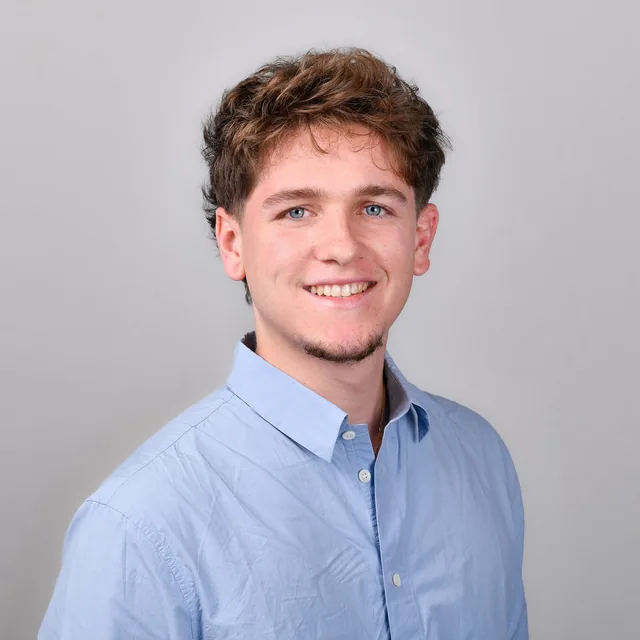
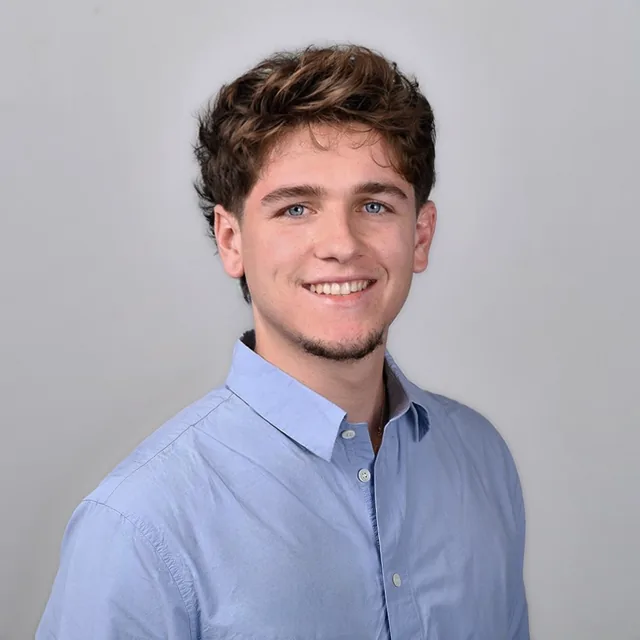
Bandeau de partenaires défilant et mise à jour de l'équipe

diff --git a/src/components/accueil/BandeauPartenaires.tsx b/src/components/accueil/BandeauPartenaires.tsx
@@ -1,5 +1,4 @@
 import Image from 'next/image';
-import { Grille } from '@/components/ui/Grille';
 import { accueil, partenaires } from '@/content/site';
 
 export function BandeauPartenaires() {
@@ -9,33 +8,38 @@ export function BandeauPartenaires() {
         {accueil.partenaires.surtitre}
       </h2>
 
-      <div className="border-t border-filet">
-        <Grille colonnes="grid-cols-2 md:grid-cols-4">
-          {partenaires.map((partenaire) => (
-            <li
-              key={partenaire.nom}
-              className="group flex h-24 items-center justify-center px-4 text-center md:h-32"
+      {/* Les logos défilent en boucle : la liste est affichée deux fois,
+          et la piste recule de la moitié de sa largeur avant de recommencer. */}
+      <div className="overflow-hidden pb-10 md:pb-14">
+        <div className="defilement-piste flex w-max">
+          {[0, 1].map((copie) => (
+            <ul
+              key={copie}
+              aria-hidden={copie === 1 || undefined}
+              className="defilement-liste flex shrink-0 items-center gap-16 pr-16 md:gap-24 md:pr-24"
             >
-              {partenaire.logo ? (
-                // Logo en couleur, qui grossit légèrement au survol.
-                <div className="relative h-11 w-[72%] md:h-14 md:w-[64%]">
-                  <Image
-                    src={partenaire.logo}
-                    alt={partenaire.nom}
-                    fill
-                    sizes="200px"
-                    className="object-contain transition-transform duration-300 group-hover:scale-105"
-                  />
-                </div>
-              ) : (
-                // Sans logo : le nom, en gris, en attendant le fichier.
-                <span className="font-titre text-lg font-medium tracking-[-0.02em] text-brume transition-colors duration-300 group-hover:text-sapin md:text-xl">
-                  {partenaire.nom}
-                </span>
-              )}
-            </li>
+              {partenaires.map((partenaire) => (
+                <li key={partenaire.nom} className="flex h-16 shrink-0 items-center md:h-24">
+                  {partenaire.logo ? (
+                    <Image
+                      src={partenaire.logo}
+                      alt={partenaire.nom}
+                      width={0}
+                      height={0}
+                      sizes="480px"
+                      className="h-full w-auto object-contain"
+                    />
+                  ) : (
+                    // Sans logo : le nom, en gris, en attendant le fichier.
+                    <span className="font-titre text-lg font-medium tracking-[-0.02em] whitespace-nowrap text-brume md:text-xl">
+                      {partenaire.nom}
+                    </span>
+                  )}
+                </li>
+              ))}
+            </ul>
           ))}
-        </Grille>
+        </div>
       </div>
     </section>
   );

diff --git a/src/app/globals.css b/src/app/globals.css
@@ -149,6 +149,37 @@
   }
 }
 
+/* ------------------------------------------------------------------
+   Bandeau de logos qui défile (accueil). Si l'utilisateur limite les
+   animations, les logos s'affichent une seule fois, centrés, sans bouger.
+   ------------------------------------------------------------------ */
+@keyframes defilement {
+  to {
+    transform: translateX(-50%);
+  }
+}
+
+@media (prefers-reduced-motion: no-preference) {
+  .defilement-piste {
+    animation: defilement 50s linear infinite;
+  }
+}
+
+@media (prefers-reduced-motion: reduce) {
+  .defilement-piste {
+    width: auto;
+  }
+  .defilement-liste {
+    flex-wrap: wrap;
+    justify-content: center;
+    width: 100%;
+    padding-inline: 20px;
+  }
+  .defilement-liste[aria-hidden] {
+    display: none;
+  }
+}
+
 @media (prefers-reduced-motion: reduce) {
   html {
     scroll-behavior: auto;

diff --git a/src/content/site.ts b/src/content/site.ts
@@ -111,7 +111,7 @@ export const accueil = {
     imageAlt: '',
   },
   partenaires: {
-    surtitre: 'Écoles et partenaires qui nous accompagnent',
+    surtitre: 'Partenaires qui nous accompagnent',
   },
   formats: {
     surtitre: "Ce qu’on fait",
@@ -332,7 +332,7 @@ export const equipe: Membre[] = [
   {
     prenom: 'Matéo',
     nom: 'Gosselin',
-    role: 'Éco-terroriste, supporter actif de Total et Emirates',
+    role: 'Responsable conférences',
     photo: '/images/team/mateo-gosselin.webp',
     linkedin: 'https://www.linkedin.com/in/mateo-gosselin/',
   },
